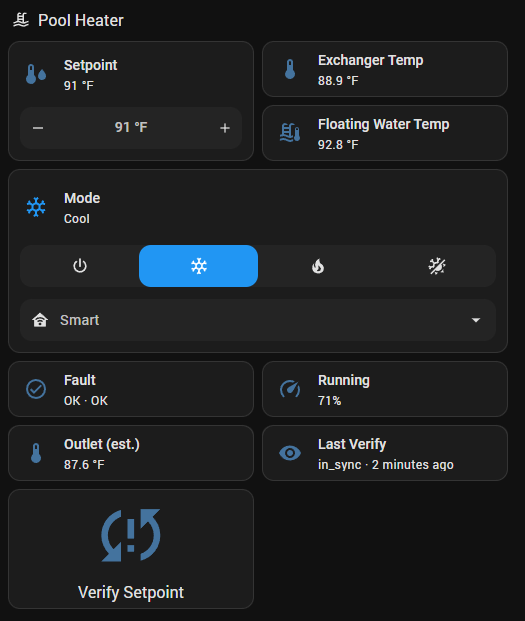
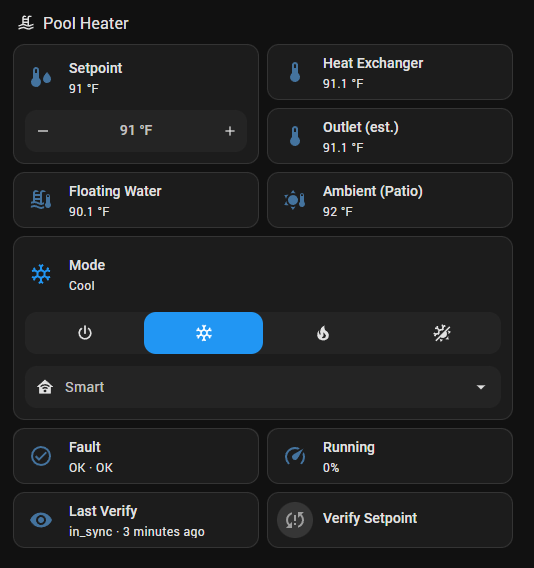
Hourly verify schedule; Heat Exchanger rename; Verify tile (buttons can't render single-row); fresh screenshot

diff --git a/GUIDE.md b/GUIDE.md
@@ -74,12 +74,12 @@ in °C and the plain tuya-local climate entity is fully coherent.
 | Tile | What it shows / does |
 |---|---|
 | **Setpoint** | The target, in °F, 1 °F steps. **The only place to set temperature.** Lands on the heater within ~2 s. |
-| **Exchanger Temp** | dp3 corrected to true °F. The probe sits at the heat exchanger: true water temp when the compressor idles, drifts toward/below the outlet under load. "What the exchanger feels", not "what the pool is". |
+| **Heat Exchanger** | dp3 corrected to true °F. Settled behavior: at rest it relaxes to true water temp in a few minutes; under load it is an **outlet-side** reading — matches the display's outlet while heating, ~1.5 °F below it while cooling. "What's leaving the exchanger", not "what the pool is". |
 | **Mode** | Off/Cool/Heat/Auto + gear dropdown (Quiet/Smart/Quick). Safe to use. **Don't set temperature from this tile's pop-up** — its numbers are °F-poisoned; such writes are harmlessly ignored. |
 | **Fault** | Latched fault code exactly as the unit's display shows it (`OK`, `E3`, …) with the manual's description. Latches on the first pulse, clears 15 s after true recovery — never flickers. |
 | **Running** | Compressor output %. Quick gear legitimately exceeds 100. |
 | **Last Verify** | Latest audit result — `in_sync` / `drift_adopted` / `read_failed` — and how long ago. |
-| **Verify Setpoint** | Button; icon glows while the ~15 s audit runs. |
+| **Verify Setpoint** | Tile; tap to run the ~15 s audit (icon lights while it runs). |
 
 ## One verify, play by play
 
@@ -95,7 +95,8 @@ in °C and the plain tuya-local climate entity is fully coherent.
    tile and notifies your phone; `read_failed` notifies. `in_sync` is
    silent.
 
-The scheduled runs (default 12:00/15:00/18:00) are the same sequence.
+The scheduled runs (default: hourly on the hour — which also repairs a
+°C reversion after a power blip within the hour) are the same sequence.
 
 ## House rules
 
